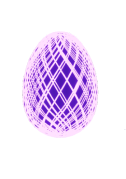
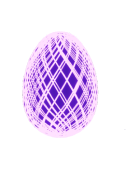
reduce incubate image text and justify header description

Changed region(s): [[0.1905, 0.1714, 0.7857, 0.8]]

diff --git a/packages/app/src/components/EndangeredSpecies/index.tsx b/packages/app/src/components/EndangeredSpecies/index.tsx
@@ -18,12 +18,12 @@ const EndangeredSpecies = () => {
 
   return (
     <div className="border rounded-lg py-12 px-4 bg-black100 max-w-lg flex flex-col items-center">
-      <div className="text-center mb-8">
-        <h2 className="font-bold text-xl lg:text-3xl mb-4">
+      <div className="mb-8">
+        <h2 className="font-bold text-xl lg:text-3xl mb-4 text-center">
           Save Endangered Species
         </h2>
 
-        <p className="text-grey text-base ">
+        <p className="text-grey text-base text-justify">
           10% of all gaming fees will be donated to non-profit organizations.
           Grow your animals, view yield earned per animal, and breed mature
           animals to mint more NFTs!
